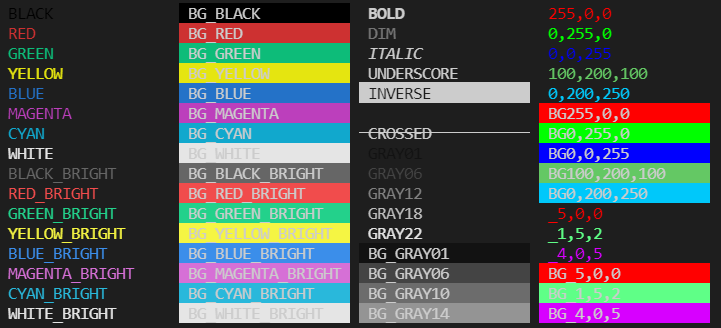
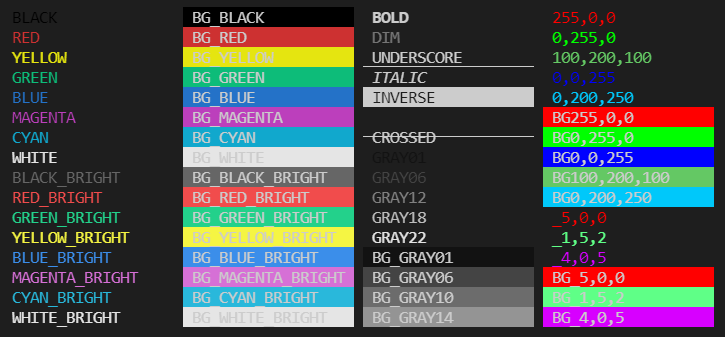
docs(readme): update

diff --git a/README.md b/README.md
@@ -1,5 +1,5 @@
 <p align="center">
-<img src="./docs/logo.svg" width="100%" style="max-width: 900px" />
+<img src="./docs/logo.png" width="100%" style="max-width: 900px" />
 <a  href="https://github.com/prostojs/prosto-router/blob/main/LICENSE">
     <img src="https://img.shields.io/badge/License-MIT-green?style=for-the-badge" />
 </a>
@@ -24,7 +24,7 @@ console.log(bold('Text In Bold'))
 // Text in Bold
 ```
 
-<img src="./docs/colors.png" />
+<img src="./docs/colors.png" style="max-width: 600px" />
 
 ### dye (coloring)
 Returns a `style` function based on input arguments.
